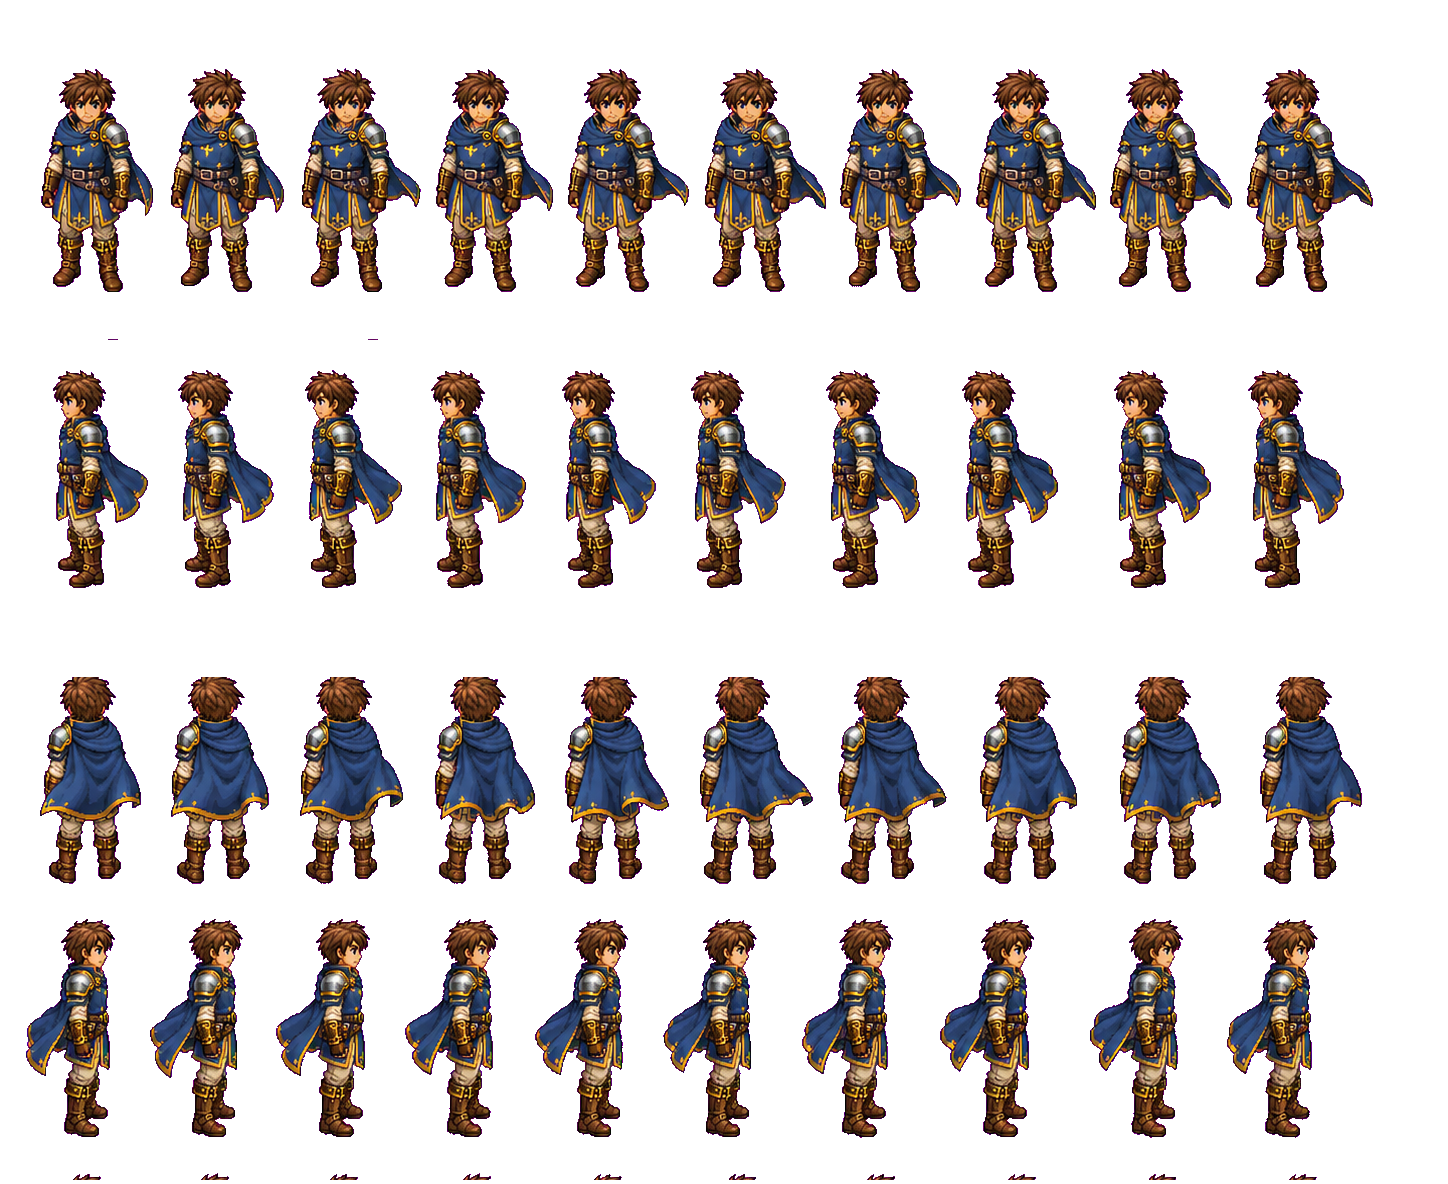
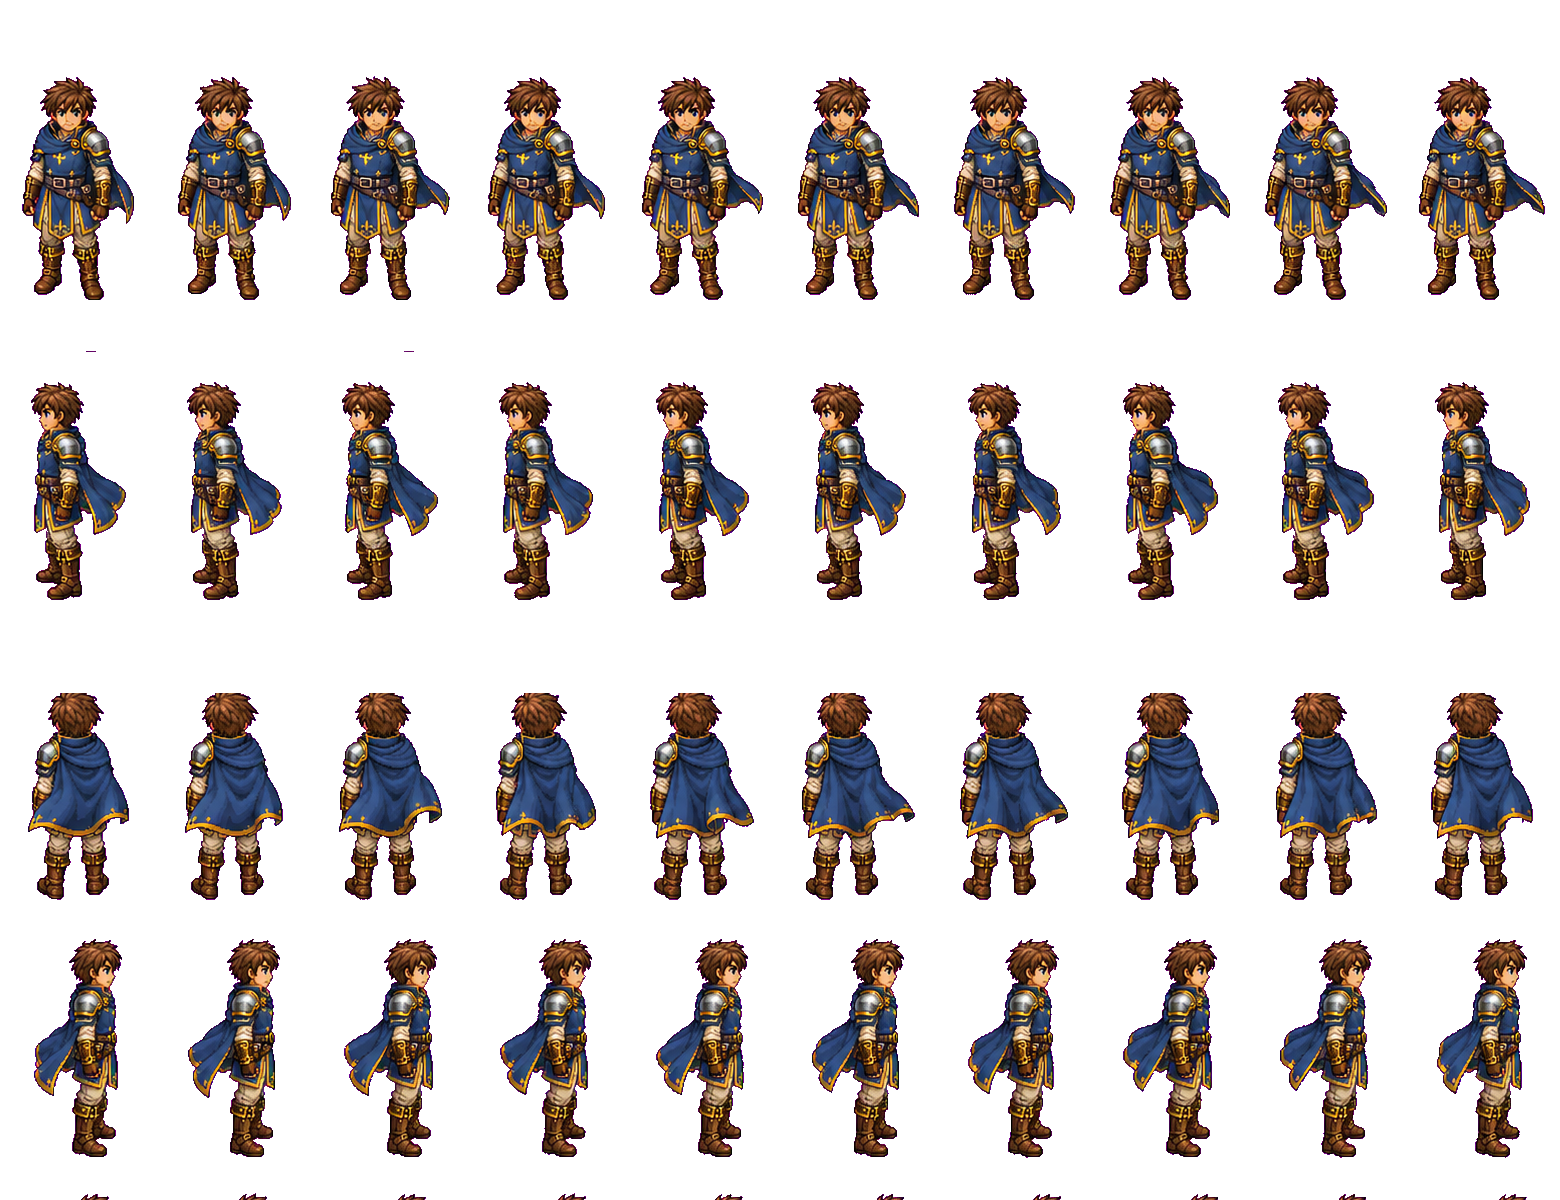
feat: super-amostragem 2x + Akles nítido/pés no chão + números de dano
- render a 2x a resolução lógica (super-sampling) — personagem e artes
  detalhadas param de ficar borrados/pixelados; campo de visão intacto
- sheets do Akles reprocessadas: gutter transparente entre frames (fim
  do "meio de um, meio do outro"), pés alinhados de verdade no rodapé
  (ignora o esfumaçado de AA que sobrava abaixo das botas)
- drawImage do herói com recuo de 1px na fonte contra bleed bilinear
- números de dano flutuantes: causado (amarelo) e sofrido (vermelho)

diff --git a/src/game/engine.ts b/src/game/engine.ts
@@ -55,16 +55,17 @@ interface AklesAnimMeta {
   fps: number;
   loop: boolean;
   disp?: number; // escala de exibição própria (senão usa AKLES_DISP_SCALE)
+  feetFrac?: number; // fração da altura da célula onde ficam os pés (default (ch-4)/ch)
 }
 
 // cw/ch = tamanho da célula na sheet (alta resolução; desenhado com dispScale).
 // idle/walk/run: folhas grandes novas (10 col x 4 lin, 145x271) — arte detalhada,
 // capa/cabelo ao vento. As folhas de combate seguem as antigas.
-const HERO_DISP = 0.3;
+const HERO_DISP = 0.37;
 const AKLES_ANIM: Record<'idle' | 'walk' | 'run' | AklesAction, AklesAnimMeta> = {
-  idle: { sheet: 'aklesIdle', cw: 145, ch: 296, cols: 10, fps: 7, loop: true, disp: HERO_DISP },
-  walk: { sheet: 'aklesWalk', cw: 145, ch: 296, cols: 10, fps: 12, loop: true, disp: HERO_DISP },
-  run: { sheet: 'aklesRun', cw: 145, ch: 296, cols: 10, fps: 16, loop: true, disp: HERO_DISP },
+  idle: { sheet: 'aklesIdle', cw: 156, ch: 300, cols: 10, fps: 7, loop: true, disp: HERO_DISP, feetFrac: 1 },
+  walk: { sheet: 'aklesWalk', cw: 156, ch: 300, cols: 10, fps: 12, loop: true, disp: HERO_DISP, feetFrac: 1 },
+  run: { sheet: 'aklesRun', cw: 156, ch: 300, cols: 10, fps: 16, loop: true, disp: HERO_DISP, feetFrac: 1 },
   chop: { sheet: 'aklesSlash', cw: 192, ch: 192, cols: 6, fps: 13, loop: false, disp: 0.44 },
   mine: { sheet: 'aklesThrust', cw: 192, ch: 192, cols: 6, fps: 13, loop: false, disp: 0.44 },
   attack: { sheet: 'aklesSlash', cw: 192, ch: 192, cols: 6, fps: 15, loop: false, disp: 0.44 },
@@ -935,6 +936,64 @@ export class GameEngine {
   }> = [];
   private npcBarkCd: Record<string, number> = {};
   private barkNpcInRange: string | null = null;
+
+  // Números de dano flutuantes (causado = amarelo, sofrido = vermelho)
+  private damageTexts: Array<{
+    x: number;
+    y: number;
+    vx: number;
+    vy: number;
+    text: string;
+    color: string;
+    life: number;
+    ttl: number;
+    big: boolean;
+  }> = [];
+  addDamageText(x: number, y: number, text: string, color: string, big = false) {
+    this.damageTexts.push({
+      x,
+      y,
+      vx: (Math.random() - 0.5) * 26,
+      vy: -58 - Math.random() * 20,
+      text,
+      color,
+      life: 0,
+      ttl: big ? 1.0 : 0.8,
+      big,
+    });
+    if (this.damageTexts.length > 60) this.damageTexts.splice(0, this.damageTexts.length - 60);
+  }
+  private updateDamageTexts(dt: number) {
+    for (const t of this.damageTexts) {
+      t.life += dt;
+      t.x += t.vx * dt;
+      t.y += t.vy * dt;
+      t.vy += 120 * dt; // desacelera a subida e cai um pouco
+    }
+    this.damageTexts = this.damageTexts.filter((t) => t.life < t.ttl);
+  }
+  private renderDamageTexts(ctx: CanvasRenderingContext2D, camX: number, camY: number) {
+    if (!this.damageTexts.length) return;
+    ctx.save();
+    ctx.textAlign = 'center';
+    ctx.textBaseline = 'middle';
+    for (const t of this.damageTexts) {
+      const p = t.life / t.ttl;
+      const alpha = p < 0.15 ? p / 0.15 : p > 0.6 ? Math.max(0, 1 - (p - 0.6) / 0.4) : 1;
+      const sx = Math.round(t.x - camX);
+      const sy = Math.round(t.y - camY - p * 6);
+      if (sx < -40 || sx > this.viewportW + 40 || sy < -30 || sy > this.viewportH + 30) continue;
+      ctx.font = `900 ${t.big ? 17 : 13}px system-ui, sans-serif`;
+      ctx.globalAlpha = alpha;
+      ctx.lineWidth = 3;
+      ctx.strokeStyle = 'rgba(8,10,16,0.9)';
+      ctx.strokeText(t.text, sx, sy);
+      ctx.fillStyle = t.color;
+      ctx.fillText(t.text, sx, sy);
+    }
+    ctx.globalAlpha = 1;
+    ctx.restore();
+  }
   private pendingAklesReply: { text: string; at: number } | null = null;
   private static AKLES_BARKS = [
     'Um-dois-três-quatro... tô contando o compasso.',
@@ -1529,15 +1588,22 @@ export class GameEngine {
     this.setCameraZoom(1.0);
   }
 
+  // Super-amostragem: renderiza a 2x a resolução lógica e deixa o CSS reduzir.
+  // Deixa personagem/artes detalhadas bem mais nítidos sem mudar o campo de visão.
+  readonly renderScale = 2;
+
   updateViewportDimensions() {
     this.viewportW = Math.round(this.baseViewportW / this.cameraZoom);
     this.viewportH = Math.round(this.baseViewportH / this.cameraZoom);
-    this.canvas.width = this.viewportW;
-    this.canvas.height = this.viewportH;
+    const rs = this.renderScale;
+    this.canvas.width = this.viewportW * rs;
+    this.canvas.height = this.viewportH * rs;
+    this.ctx.setTransform(rs, 0, 0, rs, 0, 0);
     this.ctx.imageSmoothingEnabled = false;
 
-    this.lightCanvas.width = this.viewportW;
-    this.lightCanvas.height = this.viewportH;
+    this.lightCanvas.width = this.viewportW * rs;
+    this.lightCanvas.height = this.viewportH * rs;
+    this.lightCtx.setTransform(rs, 0, 0, rs, 0, 0);
   }
 
   private npcToInteraction(n: NPC): InteractionNpc {
@@ -1592,8 +1658,9 @@ export class GameEngine {
   getWorldPosFromEvent(e: MouseEvent): { x: number; y: number } | null {
     const rect = this.canvas.getBoundingClientRect();
     if (rect.width === 0 || rect.height === 0) return null;
-    const scaleX = this.canvas.width / rect.width;
-    const scaleY = this.canvas.height / rect.height;
+    // canvas.width é físico (renderScale x lógico) — normaliza p/ coords lógicas
+    const scaleX = this.canvas.width / rect.width / this.renderScale;
+    const scaleY = this.canvas.height / rect.height / this.renderScale;
     const canvasX = (e.clientX - rect.left) * scaleX;
     const canvasY = (e.clientY - rect.top) * scaleY;
     return {
@@ -2348,9 +2415,11 @@ export class GameEngine {
   damagePlayer(n: number) {
     if (this.playerInvuln > 0) return;
     const s = this.stats;
+    n = Math.max(1, Math.round(n));
     s.hp = Math.max(0, s.hp - n);
     this.playerHurtFlash = 0.35;
     this.playerInvuln = 0.7;
+    this.addDamageText(this.player.x + 12, this.player.y - 4, `-${n}`, '#f87171', true);
     this.onStatsChange?.({ ...s });
     if (s.hp <= 0) {
       // renasce na vila
@@ -2366,8 +2435,10 @@ export class GameEngine {
 
   damageEnemy(e: Enemy, dmg: number, fromX: number, fromY: number) {
     if (e.state === 'dead') return;
+    dmg = Math.max(1, Math.round(dmg));
     e.hp -= dmg;
     e.hurtFlash = 0.2;
+    this.addDamageText(e.x + 8, e.y - 12, String(dmg), '#fde047');
     const kd = Math.atan2(e.y - fromY, e.x - fromX);
     e.knockX = Math.cos(kd) * 90;
     e.knockY = Math.sin(kd) * 90;
@@ -3071,6 +3142,7 @@ export class GameEngine {
     this.updateFireflies(dt);
     this.updateHarvestables(dt);
     this.updateWeatherAndWind(dt);
+    this.updateDamageTexts(dt);
 
     if (Math.random() < 0.18) {
       this.addBlossomPetal(
@@ -3335,6 +3407,10 @@ export class GameEngine {
     const camX = Math.round(this.camX);
     const camY = Math.round(this.camY);
 
+    // garante a escala de super-amostragem (transform some se o canvas for redimensionado)
+    ctx.setTransform(this.renderScale, 0, 0, this.renderScale, 0, 0);
+    this.lightCtx.setTransform(this.renderScale, 0, 0, this.renderScale, 0, 0);
+
     ctx.fillStyle = '#1e4827';
     ctx.fillRect(0, 0, this.viewportW, this.viewportH);
 
@@ -3597,6 +3673,7 @@ export class GameEngine {
 
     // Balões de fala aleatórios (aproximação de NPC)
     if (!this.isEditMode) this.renderBubbles(ctx, camX, camY);
+    this.renderDamageTexts(ctx, camX, camY);
 
     // Dano ao herói — vinheta vermelha
     if (this.playerHurtFlash > 0) {
@@ -3788,7 +3865,7 @@ export class GameEngine {
     }
 
     lCtx.restore();
-    mainCtx.drawImage(this.lightCanvas, 0, 0);
+    mainCtx.drawImage(this.lightCanvas, 0, 0, this.viewportW, this.viewportH);
 
     // Banho de luar frio (azul-prateado) por cima — escala com a noite
     mainCtx.save();
@@ -3889,7 +3966,7 @@ export class GameEngine {
     }
 
     lCtx.restore();
-    mainCtx.drawImage(this.lightCanvas, 0, 0);
+    mainCtx.drawImage(this.lightCanvas, 0, 0, this.viewportW, this.viewportH);
   }
 
   private renderBubbles(ctx: CanvasRenderingContext2D, camX: number, camY: number) {
@@ -4709,8 +4786,8 @@ export class GameEngine {
       const dispScale = aMeta.disp ?? AKLES_DISP_SCALE;
       const dispW = aMeta.cw * dispScale;
       const dispH = aMeta.ch * dispScale;
-      const feetY = cy + 30;
-      const feetFrac = (aMeta.ch - 4) / aMeta.ch;
+      const feetY = cy + 31;
+      const feetFrac = aMeta.feetFrac ?? (aMeta.ch - 4) / aMeta.ch;
 
       const sheetRow = AKLES_DIR_ROW[char.direction];
       let col: number;
@@ -4723,15 +4800,18 @@ export class GameEngine {
         col = Math.floor(this.timeElapsed * aMeta.fps) % aMeta.cols;
       }
 
-      // Suaviza só o herói (as sheets têm resolução maior que o tamanho na tela)
+      // Suaviza só o herói (as sheets têm resolução maior que o tamanho na tela).
+      // Recuo de 1px na fonte p/ o filtro bilinear não puxar o frame vizinho
+      // (o que fazia "meio de um, meio do outro").
+      const gutter = 1;
       ctx.imageSmoothingEnabled = true;
       ctx.imageSmoothingQuality = 'high';
       ctx.drawImage(
         aSheet,
-        col * aMeta.cw,
-        sheetRow * aMeta.ch,
-        aMeta.cw,
-        aMeta.ch,
+        col * aMeta.cw + gutter,
+        sheetRow * aMeta.ch + gutter,
+        aMeta.cw - gutter * 2,
+        aMeta.ch - gutter * 2,
         Math.round(cx + 12 - dispW / 2),
         Math.round(feetY - dispH * feetFrac),
         Math.round(dispW),

diff --git a/src/components/GameCanvas.tsx b/src/components/GameCanvas.tsx
@@ -620,8 +620,9 @@ export const GameCanvas: React.FC = () => {
     if (!propType || !engineRef.current || !canvasRef.current) return;
 
     const rect = canvasRef.current.getBoundingClientRect();
-    const scaleX = canvasRef.current.width / rect.width;
-    const scaleY = canvasRef.current.height / rect.height;
+    const rs = engineRef.current.renderScale;
+    const scaleX = canvasRef.current.width / rect.width / rs;
+    const scaleY = canvasRef.current.height / rect.height / rs;
     const canvasX = (e.clientX - rect.left) * scaleX;
     const canvasY = (e.clientY - rect.top) * scaleY;
 
@@ -994,7 +995,7 @@ export const GameCanvas: React.FC = () => {
         <canvas
           ref={canvasRef}
           className="w-full h-full object-contain cursor-default select-none"
-          style={{ imageRendering: 'pixelated', touchAction: 'none' }}
+          style={{ imageRendering: 'auto', touchAction: 'none' }}
         />
       </div>
 
